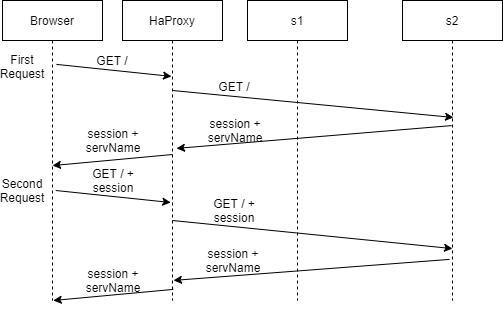
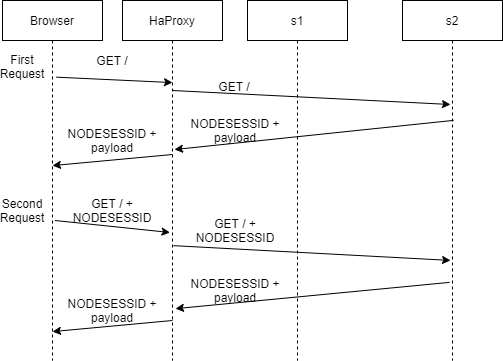
Corrected graphs and grammar of task 1 and 2

diff --git a/labo3/Rapport.md b/labo3/Rapport.md
@@ -5,7 +5,7 @@
 
 ### Introduction
 
-In this laboratory, we will configure a load-balancer with different modes like sticky sessions or drain. We will also look at the results with the different modes. We will also look at what happens when a server is lower than another. In the end, we will look at two new algorithm and compare them by showing results and choose the most suitable for the laboratory.
+In this laboratory, we will configure a load-balancer with different configuration like sticky sessions or drain mode. We will also look at the results with the different modifications. We will also look at what happens when a server is lower than another. At the end, we will look at two new algorithms to choose a node and compare them by showing results and choose the most suitable for the laboratory.
 
 
 ### Task 1 : Install the tools
@@ -13,23 +13,25 @@ In this laboratory, we will configure a load-balancer with different modes like 
 After starting the different containers using docker compose, when we open the browser we can see the following result :
 <img alt="Test 1" src="./img/1.1_3.PNG" width="700" >
 
+A JSON payload is shown containing the name of the server that responded and the session id and more.
+
 If we look at the application tab in the development tools we can see that a cookie is created for the user with the server s1.
 Here is an example of it.
 
 <img alt="Test 1" src="./img/1.1_1.PNG" width="700" >
 
-In this screenshot we can see that the session ID NODESESSID is created when we connect to the load balancer.
+In this screenshot we can see that the session id NODESESSID is created when we connect to the load balancer.
 This token is created by the web apps in our case the web app s1. And so the session is created with the server s1.
 
-When we refresh the page we can see that the NODESESSID changed.
+When we refresh the page we can see that the NODESESSID changed and the name of the server too.
 <img alt="Test 1" src="./img/1.1_2.PNG" width="700" >
 
 This is the case because the load balancer redirected us to a different server. This time it is the web app s2, hence the session created before is unknown to the current server and so a new one is created and the value of the cookie is changed.
 
-If we continue to refresh the page we will always get a different NODESESSID as we will change the server ip every time, and the token in NODESESSID will not have been generated by the server contacted so the value will be updated.
+If we continue to refresh the page we will always get a different NODESESSID as we will change the server ip every time, and the token in NODESESSID will not have been generated by the server contacted so the value will be updated. The sessionViews variable will not be incremented and stay at the value 1.
 
 #### 1.2
-It should keep the same session id even if the user refresh the page. And for that we should not speak with a different server but with the same that created the session. Because, the server that generated the session can validate the token given and so keep the right session. We should add Session Stickyness or use a different algorithm than roundrobin to have this behavior.
+It should keep the same session id even if the user refresh the page. For that, we should not speak with a different server, but with the same that created the session. We would like that because, the server that generated the session can validate the token given and so keep the right session. We should add Session Stickyness or use a different algorithm than roundrobin to have this behavior.
 
 #### 1.3
 <img alt="Test 1" src="./img/1.3.PNG" width="700" >
@@ -37,7 +39,7 @@ It should keep the same session id even if the user refresh the page. And for th
 The first request will go to the server s1. The server will then respond with a cookie related to the session created and the payload to show.
 The client will then store the cookie and in the next request send it with it. This time because we use the roundrobin we will send the request to the second server s2. The server will then see the request but the session passed is not known to him and so, in the response a new cookie will be sent with a new session for the server s2. The client will then store this new value and send it in the next request.
 
-The next request will be directed to the server s1 and he will react the same way as the server s2 in the last request.
+The next request will be redirected to the server s1 and he will react the same way as the server s2 in the last request.
 
 #### 1.4
 <img alt="Test 1" src="./img/1.4.PNG" width="700" >
@@ -56,7 +58,7 @@ We can also see a different behavior from the session handling :
 <img alt="Test 1" src="./img/1.5_1.PNG" width="700" >
 <img alt="Test 1" src="./img/1.5_2.PNG" width="700" >
 
-This time because we communicate with the same server we did not change our session id and the sessionView variable incremented as expected.
+This time because we communicate with the same server we did not change our session id and the sessionView variable incremented as expected and the same session is being used every time.
 
 ### Task 2 : Sticky sessions
 #### 2.1
@@ -64,7 +66,7 @@ The difference between the two ways of implementing sticky sessions is mainly th
 Here is a diagram of the situation :
 <img alt="Test 1" src="./img/2.1_1.PNG" width="700" >
 
-In the second case with the NODESESSID the HAproxy will use the existing cookie to determine where to send the request. The HAproxy will receive the response with a cookie and then have a stick-table per backend node. This stick-table will contain the cookie and the server related to it. The advantage of using this approach is that, if we have an application that contains static content that doesn't require authentication, any server will be used to respond to the request. With the SERVERID once a connection is started, every subsequent request will be sent to the same server every time.
+In the second case, with the NODESESSID, the HAproxy will use the existing cookie to determine where to send the request. The HAproxy will receive the response with a cookie and add a prefix that is the name of the server that responded. Then, when the load-balancer will receive a request it will look at the prefix and redirect the request to the right server. The advantage of using this approach is that, if we have an application that contains static content that doesn't require authentication, any server will be used to respond to the request. With the SERVERID once a connection is started, every subsequent request will be sent to the same server every time.
 Here is a diagram of the situation :
 <img alt="Test 1" src="./img/2.1_2.PNG" width="700" >
 
@@ -89,7 +91,9 @@ As expected the session is now handled correctly we communicate with the server 
 #### 2.4
 <img alt="Test 1" src="./img/2.4.PNG" width="700" >
 
-In this case in the response of the request the cookie will have a prefix that indicates the server to contact for the load balancer it will be added as a prefix and the token generated by the app will start after the ~.
+In this case, in the response of the request, the cookie will have a prefix that indicates the server to contact for the load balancer it will be added as a prefix and the token generated by the app will start after the ~. So, if we refresh the page the cookie will be kept and the request sent to the load-balancer that will then redirect it to the right server, in this diagram the server s2.
+
+When a new browser is used because of the round robin the server s1 will be contacted. The HAProxy(load-balancer in the graph) will send the request to the server and then in the response it will add, as for the server s2, the prefix of the name of the server in our case s1. If the page is refreshed the load-balancer will act the same way as the first browser.
 
 #### 2.5
 Yes in this case the same server is reached every time so the 1000 requests were sent to the same server in our case the server s2 :
@@ -108,7 +112,7 @@ We have 2000 GET requests because we set that the thread group will have 2 threa
 
 Then as defined in the test the thread(user) will send 1000 GET requests. The first user will send 1000 requests to the server s1 and then the second user 1000 requests to the server s2.
 
-We can confirm the result also be watching the content of the last response of each server :
+We can confirm the result also by watching the content of the last response of each server :
 <img alt="Test 1" src="./img/2.6_1.PNG" width="700" >
 <img alt="Test 1" src="./img/2.6_2.PNG" width="700" >
 
@@ -218,12 +222,12 @@ In the first place, we had to configure the server to have the leastconn algorit
   Then we started a JMeter test with 3 users to see how the connections are handled :
   <img alt="5.2" src="./img/5.2_leastconn_1.PNG" width="700" >
 
-  In the screenshot above we can see that the first server to handle the connection is s1 and so the next user will be connected to the s2 server beacause the s2 server has the least connections. Then, s1 will be called again because a roundrobin is used when servers have the same amount of connection.
+  In the screenshot above we can see that the first server to handle the connection is s1 and so the next user will be connected to the s2 server because the s2 server has the least connections. Then, s1 will be called again because a roundrobin is used when servers have the same amount of connection.
 
   To view a difference we have started a session that will be consistent for the server s1 and then we send request to the load-balancer :
   <img alt="5.2" src="./img/5.2_leastconn_2.PNG" width="700" >
 
-  In this case the server s2 that has a delay of 0 will handle all the requests beacause it will always have the least connections.
+  In this case the server s2 that has a delay of 0 will handle all the requests because it will always have the least connections.
 
 - **source**  
 Like before we implemented the source algorithm in the haproxy.cfg file :
@@ -240,7 +244,7 @@ Like before we implemented the source algorithm in the haproxy.cfg file :
 
 
 #### 5.3
-We think that for this lab the best strategy is the leastconn and we will explain why. The problem with the source algorithm is that for instance, if we have a server that will receive connections from the HEIG-VD we will have a problem beacause all the students go on the internet with the same IP adress and so all the requests made by the students will be directed to the same server and we do not have a right balance between the servers. This could lead to a problem if the server cannot handle a lot of requests it cloud cause a DoS for instance.
+We think that for this lab the best strategy is the leastconn and we will explain why. The problem with the source algorithm is that for instance, if we have a server that will receive connections from the HEIG-VD we will have a problem because all the students go on the internet with the same IP adress and so all the requests made by the students will be directed to the same server and we do not have a right balance between the servers. This could lead to a problem if the server cannot handle a lot of requests it cloud cause a DoS for instance.
 
 With the leastconn we do not have this problem because the server will have the same amount of connections. In this case, if we take a look at the same example the students of the HEIG-VD will not contact the same server because when creating a connection it will not redirect to the same server if another server as least connection.
 
